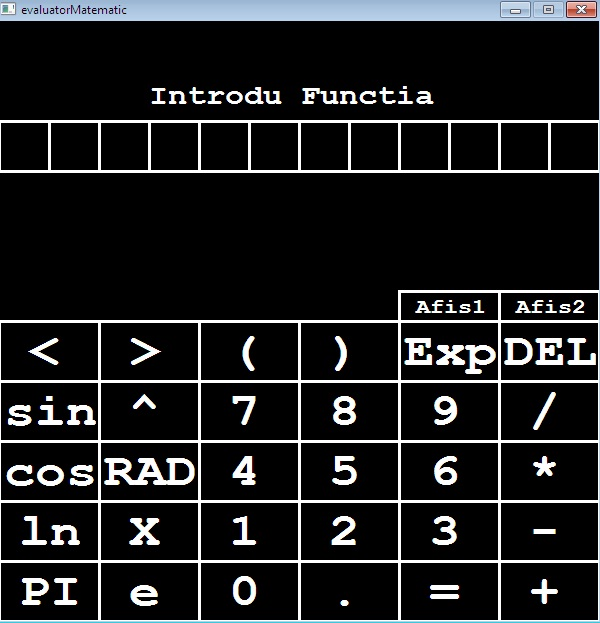
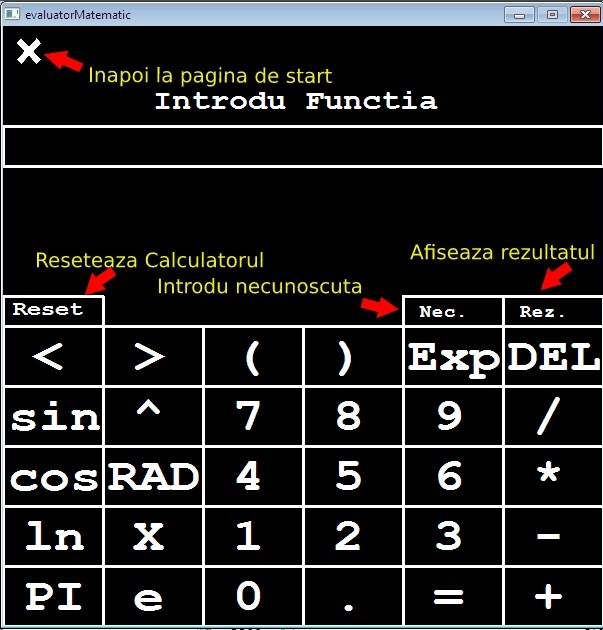
Add sounds and finish the tutorial page

Changed region(s): [[0.0, 0.0, 1.0, 1.0], [0.87, 0.7319, 0.93, 0.7624], [0.87, 0.6709, 0.9, 0.7014]]

diff --git a/grafica.h b/grafica.h
@@ -3,7 +3,8 @@
 #include <graphics.h>
 #include <winbgim.h>
 #include <cstring>
-
+#include <windows.h>
+#include <mmsystem.h>
 using namespace std;
 #define MAX 50
 #define APASAT 1
@@ -4687,6 +4688,10 @@ void citesteString(int window1)
         settextstyle(BOLD_FONT,HORIZ_DIR,3);
         outtextxy(10,272,"Reset");
 
+        // Add exit button
+        readimagefile("exit.jpg", 10,10,40,40);
+
+
         rectangle(0,100,600,140);
         //rectangle(100,200,500,300);
         settextstyle(BOLD_FONT,HORIZ_DIR,4);//Fontu,Directia,Marimea
@@ -4805,17 +4810,25 @@ void citesteString(int window1)
         {
             clearmouseclick(WM_LBUTTONDOWN);
             setcolor(WHITE);
+
             if(apasatAfis1==0 && apasatAfis2==0)
             {
                  // BUTONUL RESET
                 rectangle(0,270,100,300);
                 settextstyle(BOLD_FONT,HORIZ_DIR,3);
                 outtextxy(10,272,"Reset");
-
                 if(cursorPosition.x > 0 && cursorPosition.x < 100 && cursorPosition.y > 300 && cursorPosition.y < 330)
                 {
                     resetat = 1;
                     bar(0,150,600,271);
+                }
+
+                if(cursorPosition.x > 10 && cursorPosition.x < 70 && cursorPosition.y > 10 && cursorPosition.y < 70){
+                    setfillstyle(SOLID_FILL,BLACK);
+                    bar(0,0,600,600);
+                    cout<<"EXIT";
+                    pornesteProgramul(window1);
+
                 }
 
                 if(cursorPosition.x>500 && cursorPosition.x<600 && cursorPosition.y>270 && cursorPosition.y<326)
@@ -4897,6 +4910,8 @@ void citesteString(int window1)
                     }
                     bar(5,236,590,260);
                     c[strlen(c)-1] = '\0';
+                    apasatAfis1 = 0;
+                    apasatAfis2 = 0;
                     strcpy(E.expresie,c);
                     cout<<E.expresie<<endl;
                     //cinTastatura(window1,c,nr2,lungimeSir);
@@ -5119,6 +5134,13 @@ void citesteString(int window1)
             }
             if(apasatAfis1>0 && apasatAfis2==0)
             {
+                if(cursorPosition.x > 10 && cursorPosition.x < 70 && cursorPosition.y > 10 && cursorPosition.y < 60){
+                    setfillstyle(SOLID_FILL,BLACK);
+                    bar(0,0,600,600);
+                    cout<<"EXIT";
+                    pornesteProgramul(window1);
+
+                }
 
                 if(cursorPosition.x > 0 && cursorPosition.x < 100 && cursorPosition.y > 300 && cursorPosition.y < 330)
                 {
@@ -5200,6 +5222,8 @@ void citesteString(int window1)
                     c[strlen(c)] = '\0';
                     strcpy(E.expresie,c);
                     bar(5,236,590,260);
+                    apasatAfis1 = 0;
+                    apasatAfis2 = 0;
                     //cinTastatura2(window1,c2,nr3,lungimeSir2);
                 }
                 if(cursorPosition.x>0 && cursorPosition.x<100 && cursorPosition.y>385 && cursorPosition.y<445)
@@ -5483,15 +5507,15 @@ void citesteString(int window1)
                 bar(0,205,600,265);
             }
         }
-        delay(5);
+        delay(10);
     }
 
 }
 
 void incepeTutorialul(int window){
-    readimagefile("starting_menu.jpg",100,100,500,500);
+    readimagefile("evaluator.jpg",100,100,500,500);
     readimagefile("right-arrow.jpg",510,250,600,300);
-    readimagefile("exit.jpg", 20,10,40,40);
+    readimagefile("exit.jpg", 10,10,40,40);
 
     while(1){
 
@@ -5502,16 +5526,39 @@ void incepeTutorialul(int window){
             clearmouseclick(WM_LBUTTONDOWN);
             cout<<"x="<<x<<' '<<"y="<<y<<endl;
             if(x>510 && x<600 && y > 250 && y < 300){
+                PlaySound((LPCSTR)"C:\\Users\\codeblocks\\Desktop\\evaluatorMatematic\\click.wav",NULL,SND_ASYNC);
                 setfillstyle(SOLID_FILL,BLACK);
                 bar(0,0,600,600);
-                readimagefile("evaluator.jpg",100,100,500,500);
-                readimagefile("left-arrow.jpg",0,250,100,300);
+                setcolor(WHITE);
+                settextstyle(BOLD_FONT,HORIZ_DIR,2);
+                outtextxy(10,50,"Dupa ce ai terminat de introdus expresia ");
+                outtextxy(10,70,"si vrei sa scrii valoarea lui x. Trebuie sa");
+                outtextxy(10,90,"apesi pe butonul NEC. de pe ecran");
+
+                outtextxy(10,130,"Pentru a vedea rezultatul calculului dat");
+                outtextxy(10,150,"va trebui sa apesi pe butonul REZ. de pe ecran.");
+
+                outtextxy(10,180, "Pentru a te intoarce la ecranul de start");
+                outtextxy(10,200, "poti oricand sa apesi pe butonul X din stanga sus.");
+
+                outtextxy(10,300,"Evaluatorul are si un sistem de detectare al");
+                outtextxy(10,320,"erorilor de scriere.Acestea pot aparea sub forma");
+                outtextxy(10,340,"urmatoare:");
+                readimagefile("erori.jpg",100,360,500,400);
+
+                outtextxy(10,400,"Pentru a scapa de erori si a putea continua");
+                outtextxy(10,420,"expresia trebuie sa apesi pe butonul delete");
+                outtextxy(10,440,"de pe ecran.");
+                readimagefile("left-arrow.jpg",0,250,70,300);
+
+
                 while(1){
                     if(ismouseclick(WM_LBUTTONDOWN))
                     {
                         int x = mousex(), y = mousey();
                         clearmouseclick(WM_LBUTTONDOWN);
                         if(x>0 && x<100 && y > 250 && y < 300){
+                                PlaySound((LPCSTR)"C:\\Users\\codeblocks\\Desktop\\evaluatorMatematic\\click.wav",NULL,SND_ASYNC);
                                 setfillstyle(SOLID_FILL,BLACK);
                                 bar(0,0,600,600);
                                 incepeTutorialul(window);
@@ -5519,7 +5566,8 @@ void incepeTutorialul(int window){
                         }
                     }
                 }
-            }else if(x>20 && x<40 && y>10 && y<40){
+            }else if(x>10 && x<40 && y>10 && y<40){
+                PlaySound((LPCSTR)"C:\\Users\\codeblocks\\Desktop\\evaluatorMatematic\\click.wav",NULL,SND_ASYNC);
                 setfillstyle(SOLID_FILL,BLACK);
                 bar(0,0,600,600);
                 pornesteProgramul(window);
@@ -5570,12 +5618,14 @@ void pornesteProgramul(int window)
             x = mousex(), y = mousey();
             clearmouseclick(WM_LBUTTONDOWN);
             if(x > 200 && x < 400 && y > 200 && y < 250){
+                PlaySound((LPCSTR)"C:\\Users\\codeblocks\\Desktop\\evaluatorMatematic\\click.wav",NULL,SND_SYNC);
                 setfillstyle(SOLID_FILL,BLACK);
                 bar(0,0,600,600);
                 setcolor(WHITE);
                 citesteString(window);
             }else if( x > 200 && x < 400 && y > 300 && y < 350)
             {
+                PlaySound((LPCSTR)"C:\\Users\\codeblocks\\Desktop\\evaluatorMatematic\\click.wav",NULL,SND_SYNC);
                 setfillstyle(SOLID_FILL,BLACK);
                 bar(0,0,600,600);
                 incepeTutorialul(window);
@@ -5590,6 +5640,7 @@ void pornesteProgramul(int window)
 
                 settextstyle(BOLD_FONT,HORIZ_DIR,3);
                 outtextxy(240,215,"Evalueaza");
+
             }else if( x > 200 && x < 400 && y > 300 && y < 350){
                 setcolor(BLUE);
                 setlinestyle(SOLID_LINE,USERBIT_LINE,THICK_WIDTH);
